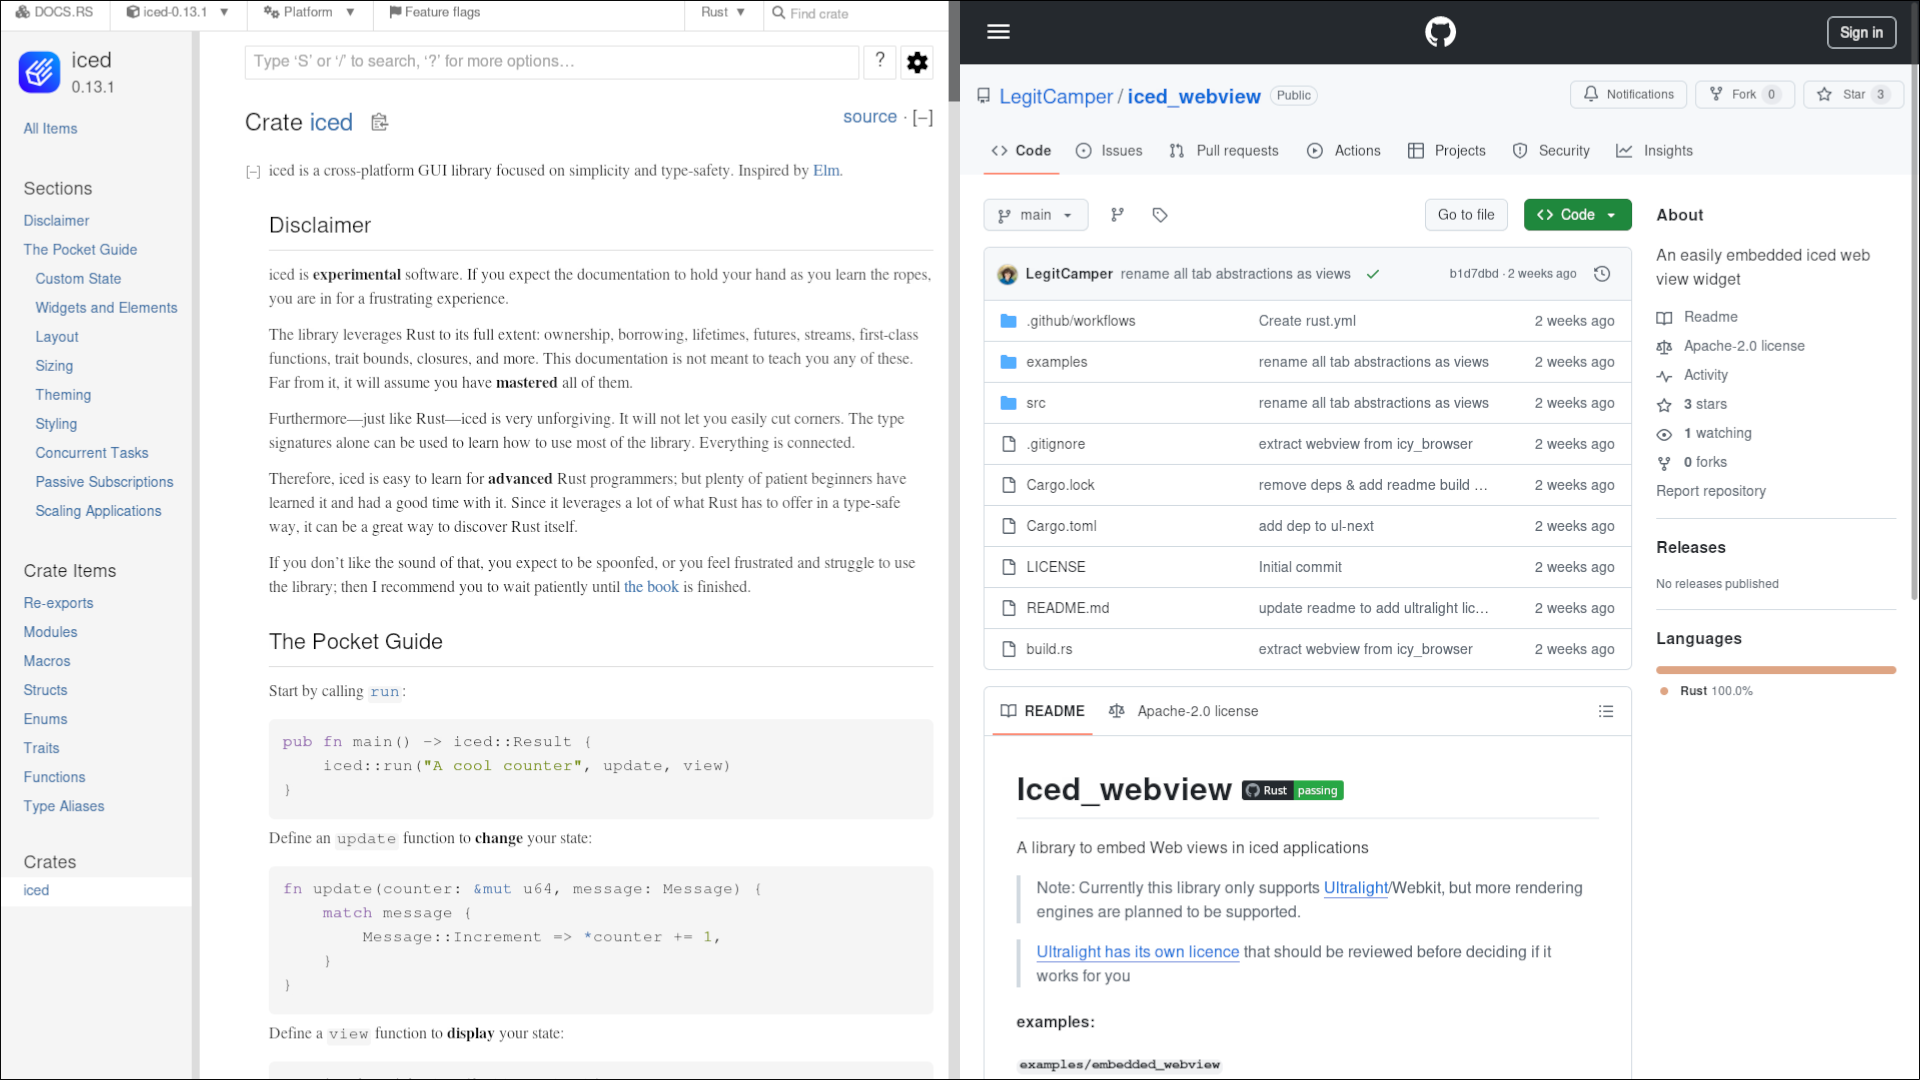
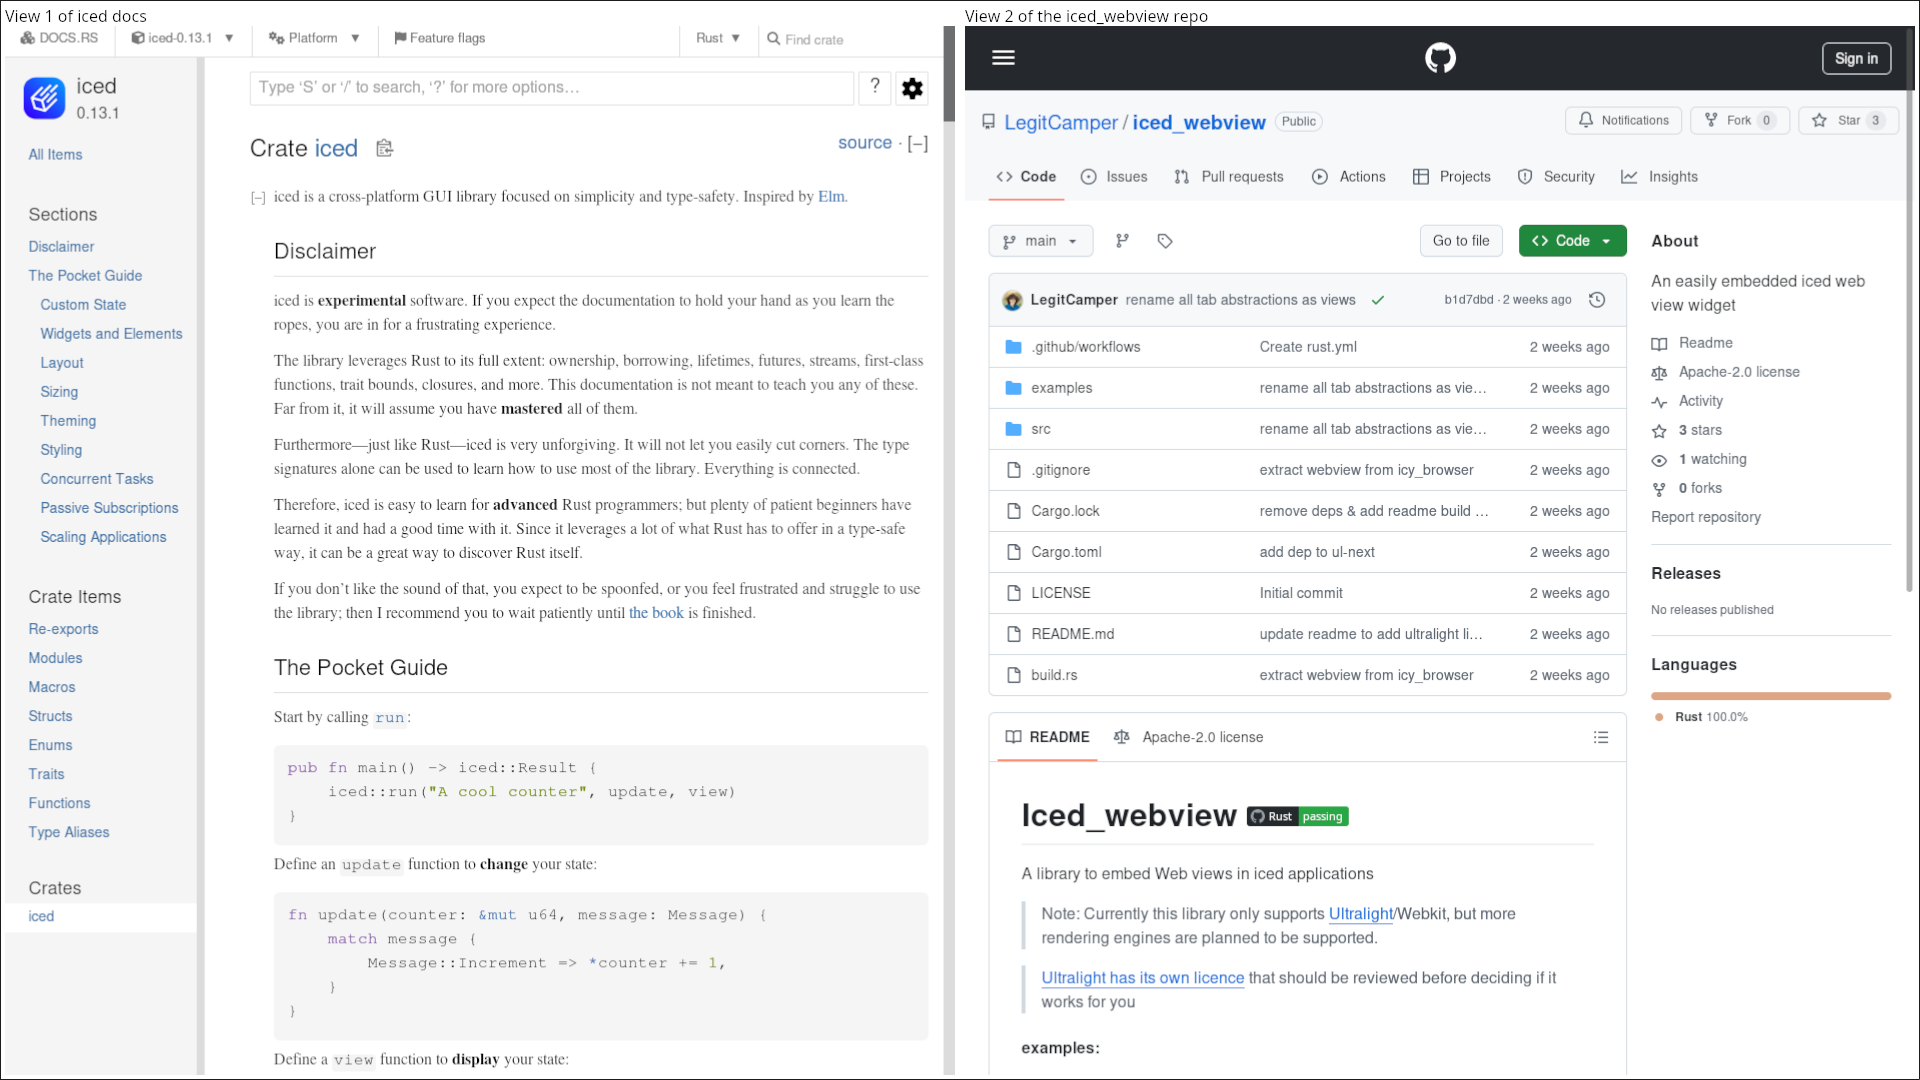
update multiview to split screen and update picture

Changed region(s): [[0.0, 0.0, 1.0, 1.0], [0.1562, 0.7028, 0.3438, 0.7333], [0.4062, 0.0, 0.4375, 0.0611]]

diff --git a/examples/multi_webview.rs b/examples/multi_webview.rs
@@ -1,7 +1,7 @@
 use iced::{
     time,
-    widget::{row, text},
-    Element, Subscription, Task,
+    widget::{column, container, row, text},
+    Element, Length, Subscription, Task,
 };
 use iced_webview::{
     advanced::{Action, WebView},
@@ -70,8 +70,16 @@ impl App {
             return text("loading").into();
         };
         row![
-            self.webview.view(view1).map(Message::WebView),
-            self.webview.view(view2).map(Message::WebView)
+            container(column![
+                text("View 1 of iced docs"),
+                container(self.webview.view(view1).map(Message::WebView)).height(Length::Fill),
+            ])
+            .padding(5),
+            container(column![
+                text("View 2 of the iced_webview repo"),
+                container(self.webview.view(view2).map(Message::WebView)).height(Length::Fill),
+            ])
+            .padding(5),
         ]
         .into()
     }
